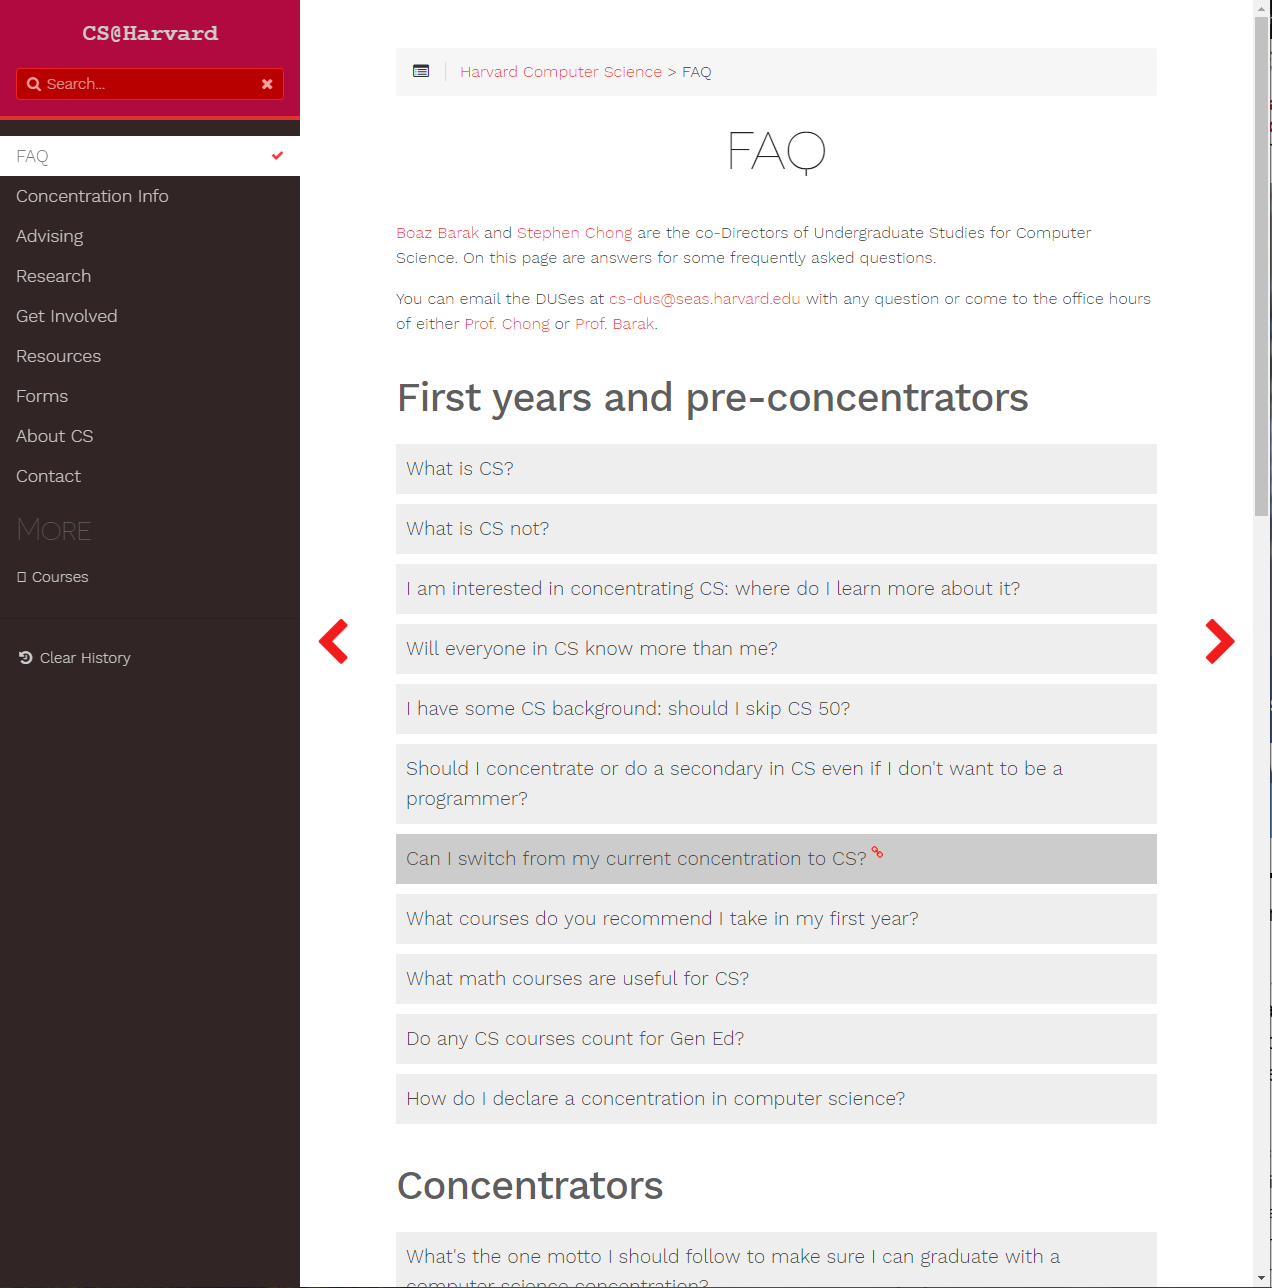
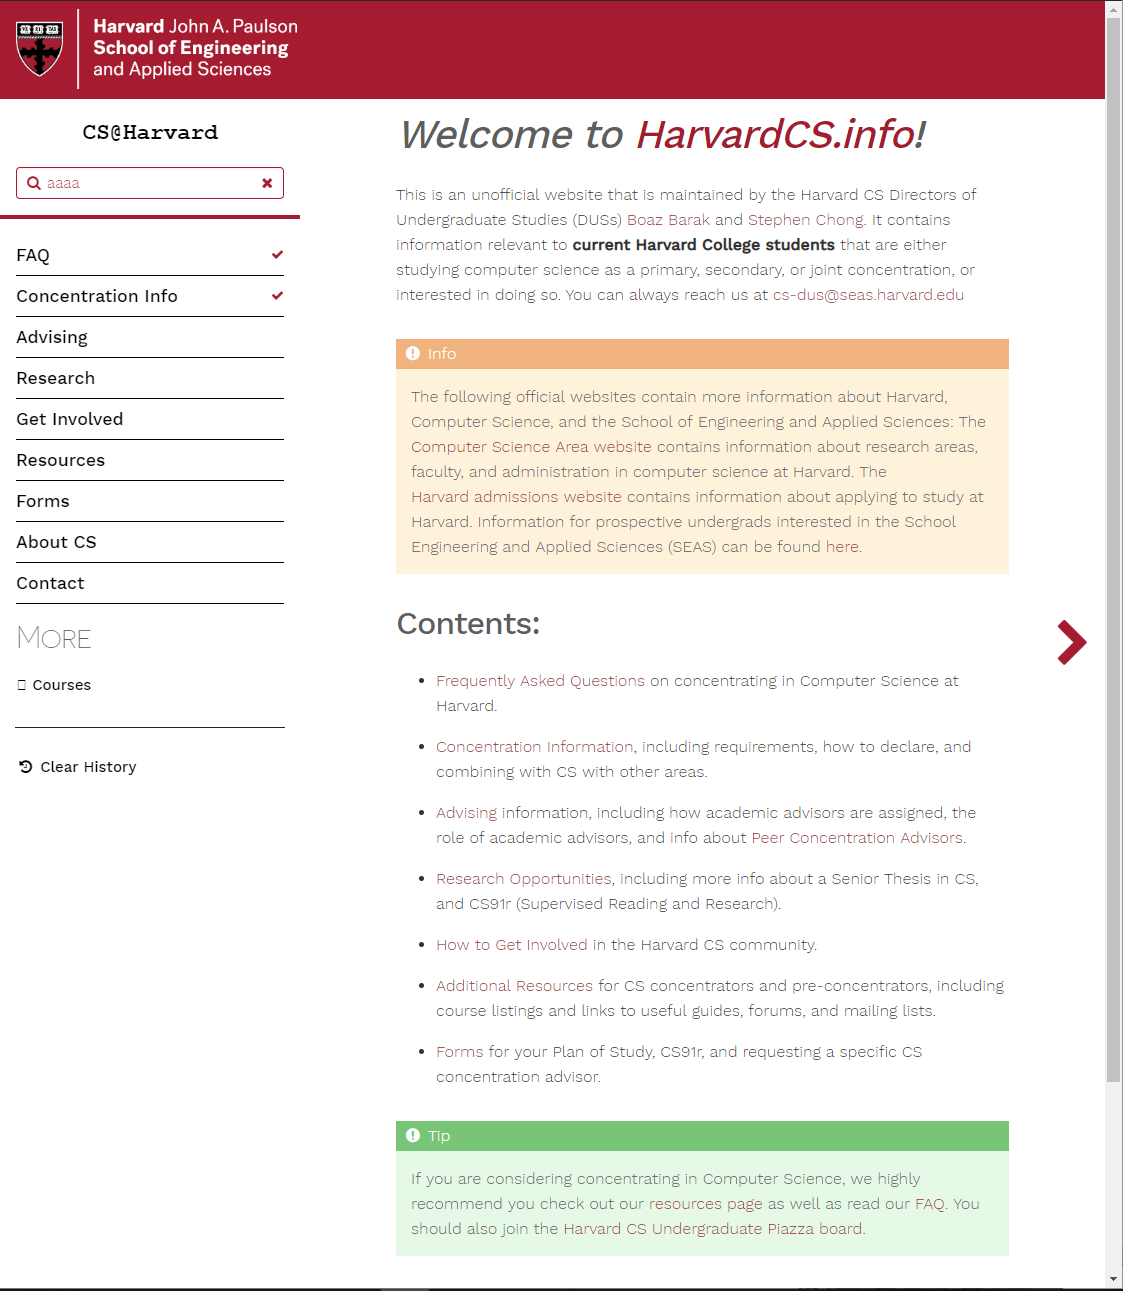
Add files via upload
Usability recommendations - proposed

diff --git a/SEAS-HarvardCS/usability/index.html b/SEAS-HarvardCS/usability/index.html
@@ -1,5 +1,5 @@
-<!-- Current code of https://harvardcs.info/-->
-
+<!-- Proposed code for https://harvardcs.info/-->
+<!-- 17 Comments and code changes ahve been made in this commit -->
 
 
 
@@ -57,14 +57,28 @@
     
 	</head>
 	<body class="" data-url="/faq/">
-		<nav id="sidebar" class="showVisitedLinks">
-			<div id="header-wrapper">
+		<!-- Adding fixed header with SEAS logo -->
+		<div style="height:6.1em; background:#A51C30; width:100%; position: fixed; top: 0;  z-index: 1;">
+			<a href"https:="" www.seas.harvard.edu="" "="" style="display: block;">
+				<img src="https://www.seas.harvard.edu/sites/default/files/H_SEAS_logo_RGB_on_black_1.png" style="height: 6em;padding: .5em; margin-left: .5em;">
+			</a>
+		</div>
+		
+		<!-- Adding margin-top -->
+		<nav id="sidebar" class="showVisitedLinks" style="margin-top:6.5em;">
+			
+			<!-- White background color in head-wrapper -->
+			<!-- Change to color: #A51C30 the class of MENU-HEADER-BORDER-color:#e23131; /*Color of menu header border */ -->
+			<div id="header-wrapper" style="background-color:#fff;">
 				<div id="header">
 					<div id="logo">
 						<a id="cslink"></a><a style="font-family:courier;font-size:150%;font-weight:bold;" id="home" href="/index.html">CS@Harvard</a><br>
 					</div>
 				</div>
 		
+				<!-- Adding background: #fff to class .searchbox -->
+				<!-- Changing color to #A51C30 on MENU-SEARCH-BOX-ICONS-color: #fda1a1; -->
+				<!-- Changing color to #A51C30 on MENU-SEARCH-BOX-color: #ef2020; -->
 				<div class="searchbox">
 					<label for="search-by"><i class="fa fa-search"></i></label>
 					<input data-search-input="" id="search-by" type="text" placeholder="Search..." autocomplete="off">
@@ -81,11 +95,20 @@
 				<script type="text/javascript" src="/js/search.js?1560529260"></script>
 			</div>
 
-			<div class="highlightable ps-container ps-theme-default" data-ps-id="e7e2ecd4-17e0-fb5f-b486-fb098e8283ad" style="height: 870px;">
+			<!-- Changing the background color -->
+			<div class="highlightable ps-container ps-theme-default" data-ps-id="e7e2ecd4-17e0-fb5f-b486-fb098e8283ad" style="height: 870px;height: 870px; background-color: #fff;">
+				<!-- Add border-bottom: 1px solid #000; to style #sidebar ul li { padding: 0; border-bottom: 1px solid #000;} -->
+				<!-- Change to font-weight: 400; the style #sidebar { font-weight: 300!important} -->
 				<ul class="topics">
 					<li data-nav-id="/faq/" title="FAQ" class="dd-item          parent         active                   visited">
+						
+						<!-- Change to color: #000 the class of MENU-SECTIONS-LINK-color: #ccc; -->
+						<!-- Change to color: #A51C30 the class of MENU-SECTIONS-LINK-HOVER-color: #e6e6e6; -->
+						<!-- Changing color to #A51C30 on MAIN-LINK-color:#f31c1c; /* Color of links */ -->
 						<a href="/faq/">
 							FAQ
+							
+							<!-- Change to color: #A51C30 the class of MENU-VISITED-color: #ff3333; -->
 							<i class="fa fa-check read-icon"></i>
 						</a>
 					</li>
@@ -270,16 +293,21 @@
 				<section id="shortcuts">
 					<h3>More</h3>
 					<ul>
-						<li> 
+						
+						<!-- Change to color: #fff the bottom border of this list item -->
+						<li style="border-bottom: 1px solid #fff;"> 
 							<a class="padding" href="/concentration/courses/"><i class="fas fa-book"></i> Courses</a>
 						</li>
 					</ul>
 				</section>
 				
 				<section id="prefooter">
+					
+					<!-- Add margin-left: 1em; and margin-right: 1em; to style #sidebar hr -->
 					<hr>
 					<ul>
-						<li><a class="padding" href="#" data-clear-history-toggle=""><i class="fa fa-fw fa-history"></i> Clear History</a></li>         
+						<!-- Change to color: #fff the bottom border of this list item -->
+						<li style="border-bottom: 1px solid #fff;"><a class="padding" href="#" data-clear-history-toggle=""><i class="fa fa-fw fa-history"></i> Clear History</a></li>         
 					</ul>
 				</section>
     
@@ -331,6 +359,8 @@
 						</div>
 					</div>
 				</div>
+				
+				<!-- Add margin-top: 4em; to #body-inner --> 
 				<div id="body-inner">
 					<h1>FAQ</h1>
 					<p>
